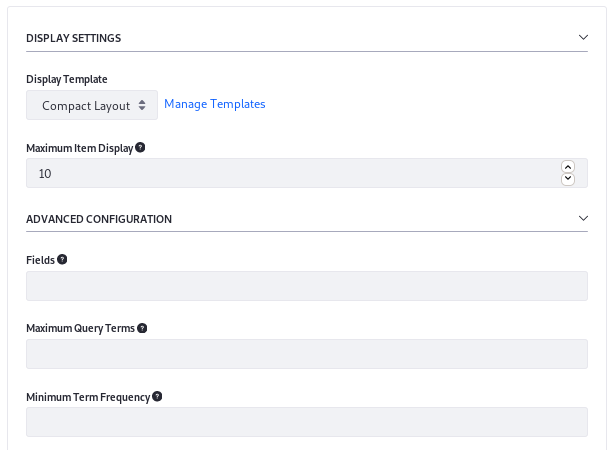
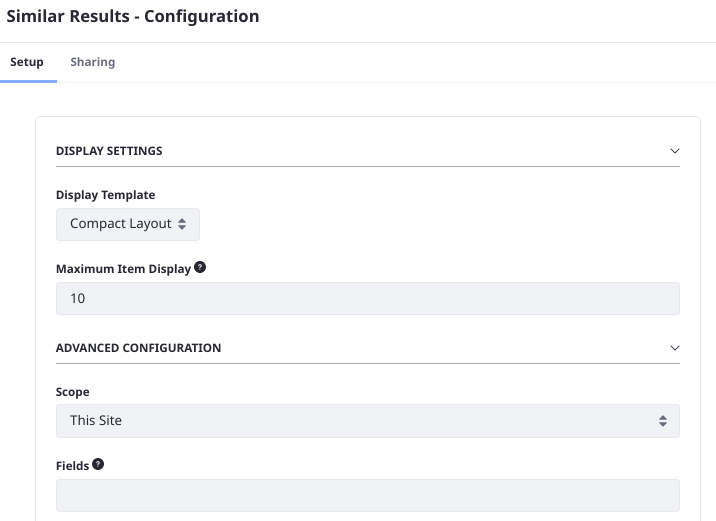
LRDOCS-10232 document the new scope configuration in similar results

diff --git a/docs/dxp/latest/en/using-search/search-pages-and-widgets/similar-results.md b/docs/dxp/latest/en/using-search/search-pages-and-widgets/similar-results.md
@@ -123,7 +123,7 @@ The same template editor is accessible from the Widget Templates entry in the Si
 
 The first configuration options appear in a section called _Display Settings_.
 
-![Configure different options in the similar results configuration.](similar-results/images/07.png)
+![Configure different options in the similar results configuration.](similar-results/images/01.png)
 
 **Display Template:** Choose the widget template to configure how similar results are displayed.
 
@@ -134,7 +134,8 @@ behavior of the widget. Many of these settings are used to configure the
 [More Like this Query for Elasticsearch](https://www.elastic.co/guide/en/elasticsearch/reference/current/query-dsl-mlt-query.html).
 
 | Advanced Settings | Definition |
-|----------------------|------------------------------|
+| :---------------- | :----------|
+| Scope | Choose between This Site (default) and Everything to display similar results from the current site only (*This Site*) or expand the scope of the search to all sites (*Everything*).
 | Fields | Use a comma-separated list to specify keyword or text fields whose content is used to determine whether another asset matches the Main Asset. |
 | Maximum Query Terms | Set the maximum number of query terms to extract from the main asset. These are the terms used for matching search results to the main asset. Increasing this value enhances the relevance of returned results at the expense of execution speed. If left blank, this defaults to `25`. |
 | Minimum Term Frequency | Set the minimum threshold for the times a term must appear in the index to be used for matching similar results. If left blank, this defaults to `2`. |
